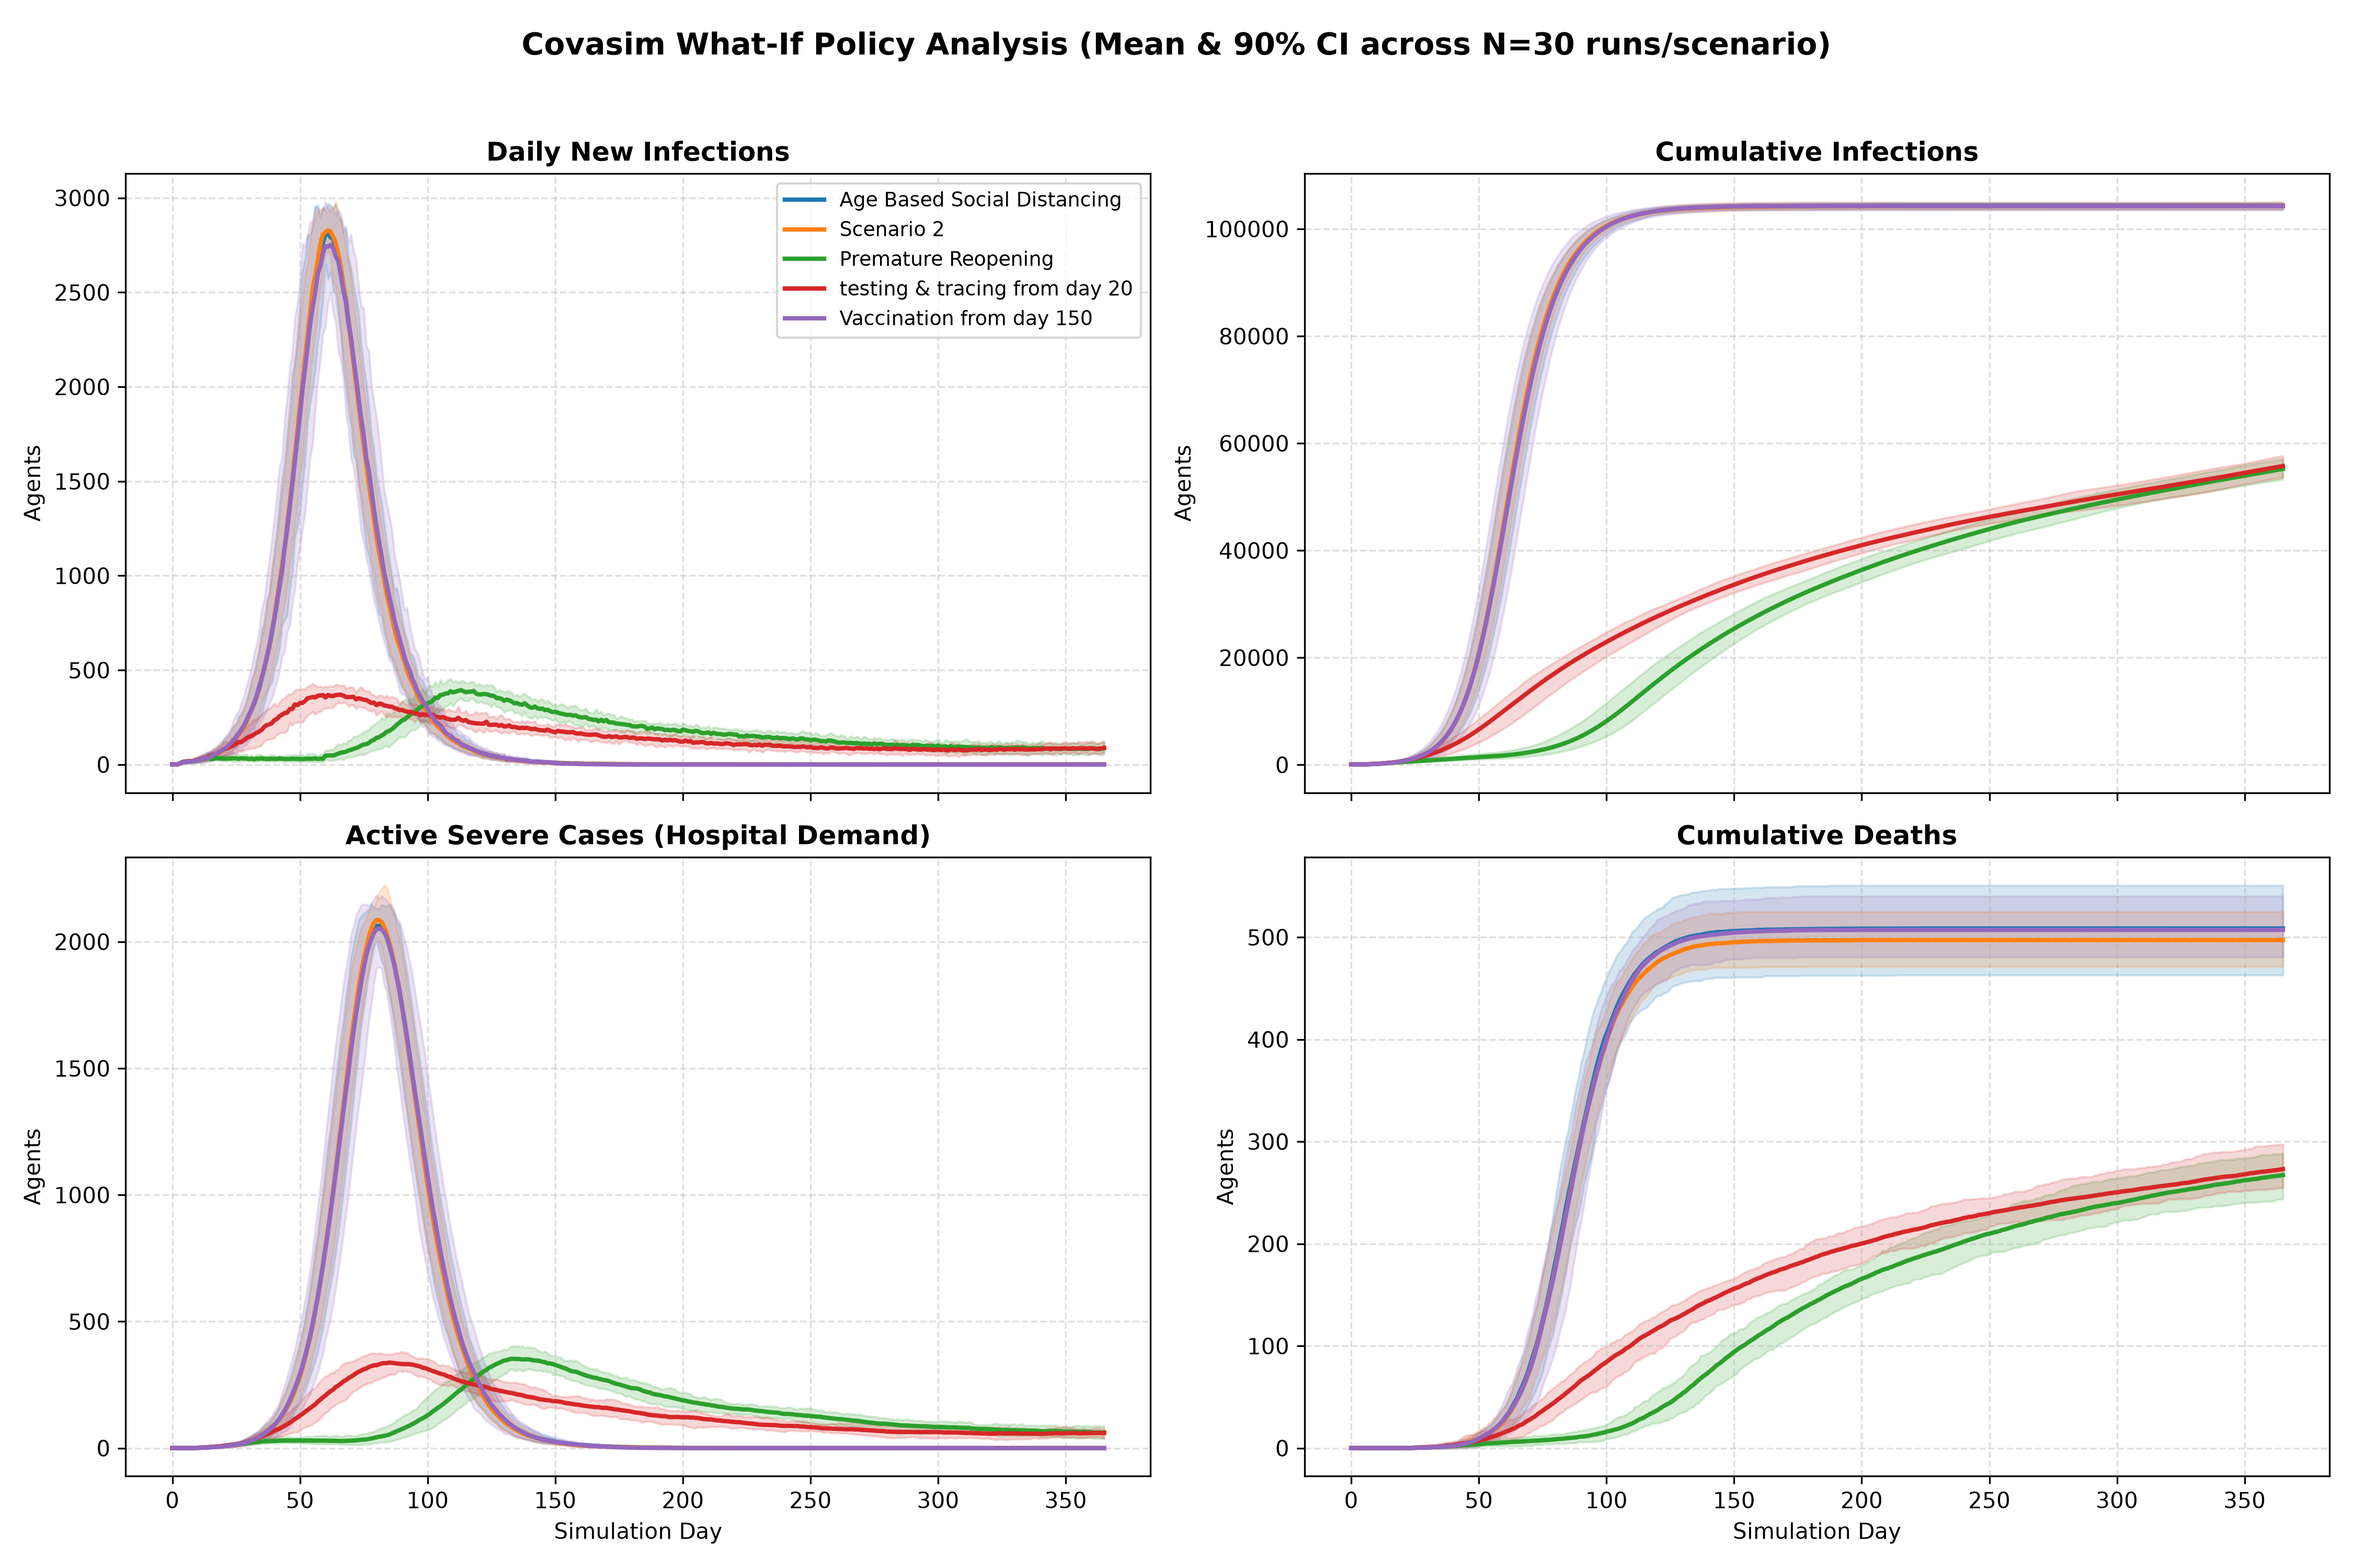
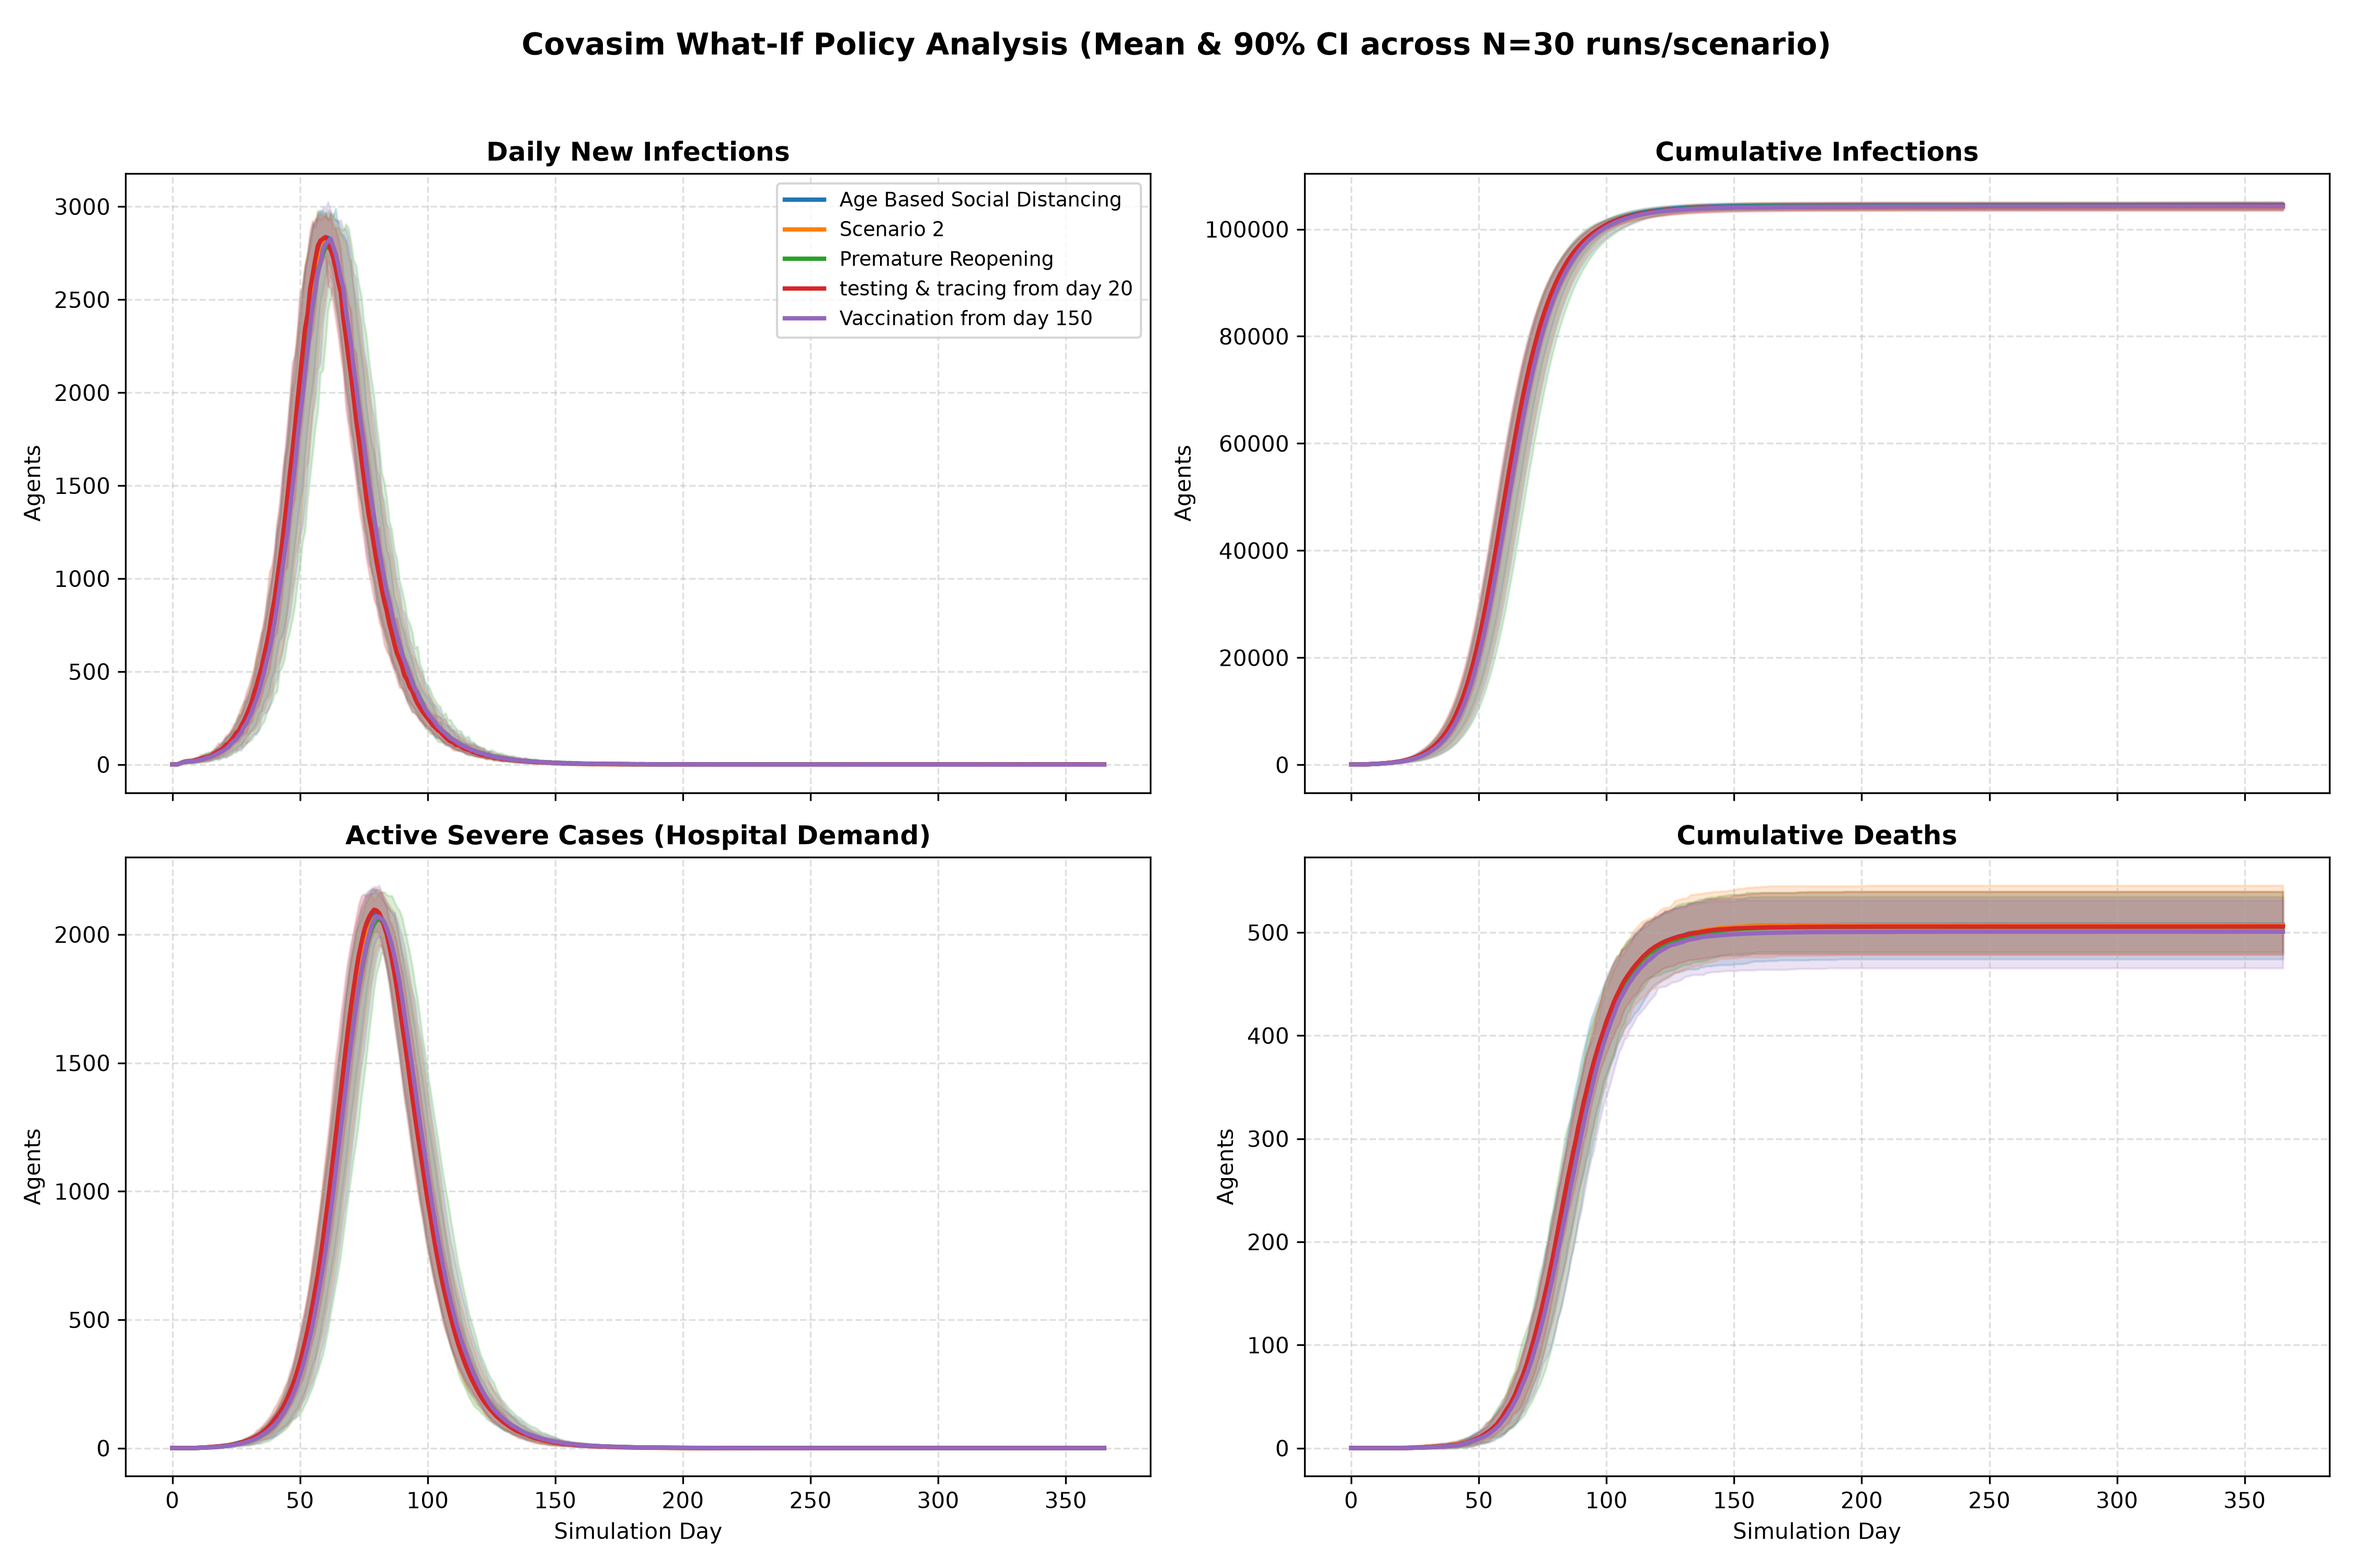
only my scenario

diff --git a/M2/scenarios.py b/M2/scenarios.py
@@ -134,15 +134,38 @@ def tracing(start):
                                 trace_time=dict(h=0, s=2, w=2, c=5),
                                 start_day=start)
 
+# What if vaccinations are prioritized for schoolkids and the elderly
+def vaccinate_by_age(sim):
+    young  = cv.true(sim.people.age < 19) # cv.true() returns indices of people matching this condition
+    middle = cv.true((sim.people.age >= 19) * (sim.people.age < 75)) # Multiplication means "and" here
+    old    = cv.true(sim.people.age >= 75)
+    
+    # Combine agent UIDs
+    inds = np.concatenate([young, middle, old])
+
+    # Assign vaccination probabilities
+    vals = np.concatenate([
+        np.full(len(young), 0.9),   # 90% for under 19
+        np.full(len(middle), 0.5),  # 50% for 19-74
+        np.full(len(old), 0.9)      # 90% for 75+
+    ])
+    output = dict(inds=inds, vals=vals)
+    return output
+
+
+# same vaccination as the simple Vaccination. Without ensuring if the total probability dismissing the targets adds up to the probability of 75% as in the simple vaccination
+VACCINATION_BY_AGEGROUP = cv.simple_vaccine(days=[150,171], rel_sus=0.5, rel_symp=0.5, subtarget=vaccinate_by_age) 
+
+
 
 def get_scenarios():
     """Define scenarios"""
     baseline = []
     scenario_1 = [] #AGE_BASED_SOCIAL_DISTANCING
-    scenario_2 = []
-    scenario_3 = PREMATURE_OPENING
-    scenario_4 = [testing(20), tracing(20)]
-    scenario_5 = [VACCINATION]
+    scenario_2 = [VACCINATION_BY_AGEGROUP]
+    scenario_3 = [] #PREMATURE_OPENING
+    scenario_4 = [] #[testing(20), tracing(20)]
+    scenario_5 = [] #[VACCINATION]
     
     return {
         'Age Based Social Distancing': scenario_1,
